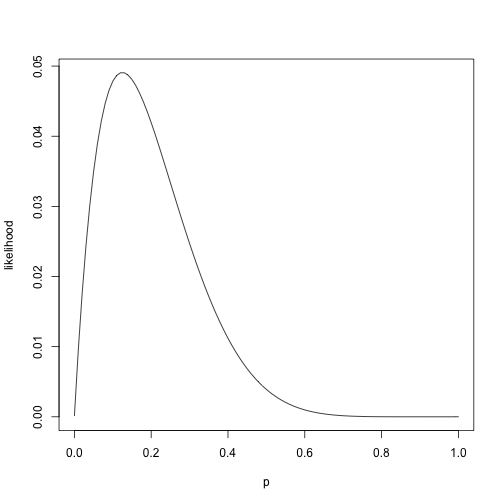
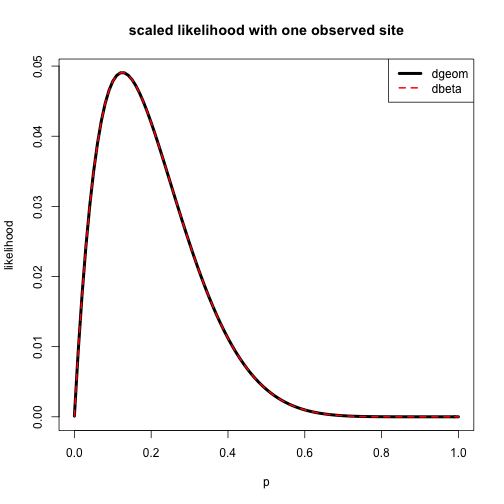
update the .md file and figures

diff --git a/scale-abundance.md b/scale-abundance.md
@@ -16,64 +16,98 @@ According to Harte et al. (2008), the distribution of abundance values, $n$, acr
 
 
 ```r
-plot(0:10, dgeom(0:10, p = .8), type = "h", lwd = 3, xlab = "n", ylab = "frequency")
-points(0:10 + .1, dgeom(0:10, p = .5), type = "h", lwd = 3, col = "red")
+plot(0:10 - .05, dgeom(0:10, p = .8), type = "h", lwd = 3, xlab = "n", ylab = "frequency")
+points(0:10 + .05, dgeom(0:10, p = .5), type = "h", lwd = 3, col = "red")
 ```
 
 ![plot of chunk unnamed-chunk-2](figure/unnamed-chunk-2-1.png) 
 
 Let's say we observe a site with $n=7$.  That outcome could have been generated from a range of possible geometric distributions, and we can assign a likelihood ($\mathrm{prob}(n|p)$) to them.
 
-
-```r
-curve(dgeom(7, x), from = .0001, xlab = "p", ylab = "likelihood")
-```
-
-![plot of chunk unnamed-chunk-3](figure/unnamed-chunk-3-1.png) 
-
-I'm pretty sure the likelihood is proportional to a beta distribution (because conjugate priors). Trial and error indicates that it has $\mathrm{shape1} = 2$ and $\mathrm{shape2} = n + 1$. Interestingly, this distribution's mean is *not* just $1/n$, which is what one might have expected (it's somewhat closer to $0.5$, especially when $n$ is small).
+I'm pretty sure the likelihood is proportional to a beta distribution (because conjugate priors). Trial and error indicates that the distribution has $\mathrm{shape1} = 2$ and $\mathrm{shape2} = n + A$. While the maximum likelihood estimate for $p$ is $1/n$, the distribution is skewed so the posterior mean will be somewhat closer to $0.5$ (especially when $n$ is small).  Here, I rescale the units of $A$ so that it equals 1.
 
 
 ```r
 Z = exp(4.276666) # Proportionality constant, found empirically
 
-curve(dgeom(7, x), from = .0001, xlab = "p", ylab = "likelihood", lwd = 4)
-curve(dbeta(x, shape1 = 2, shape2 = 7 + 1) / Z, add = TRUE, col = "red", lwd = 2)
+curve(dgeom(7, x), from = .0001, xlab = "p", ylab = "likelihood", lwd = 4, main = "scaled likelihood with one observed site")
+curve(dbeta(x, shape1 = 2, shape2 = 7 + 1) / Z, add = TRUE, col = "red", lwd = 2, lty = 2)
+legend("topright", c("dgeom", "dbeta"), lty = 1:2, lwd = c(4, 2), col = 1:2)
+```
+
+![plot of chunk unnamed-chunk-3](figure/unnamed-chunk-3-1.png) 
+
+If we'd observed $n$ at more than one site, then our estimate of $p$ would still follow a beta distribution, it would just have larger shape parameters (and less uncertainty). Trial and error seems to indicate that $\mathrm{shape1}=1+\sum_i{A_i}$ and $\mathrm{shape2} = 1 + \sum_i{n_i}$, where $i$ indexes the sites.  Here, I scaled $A$'s units so that the average area of the sampled sites equals one.
+
+
+```r
+Z = exp(8.291547) # Proportionality constant, found empirically
+
+curve(dgeom(7, x) * dgeom(11, x) * Z, from = .0001, xlab = "p", ylab = "likelihood", lwd = 4, main = "scaled likelihood with two observed sites")
+curve(dbeta(x, shape1 = 1 + 2, shape2 = 7 + 11 + 1), add = TRUE, col = "red", lwd = 2, lty = 2)
+legend("topright", c("dgeom", "dbeta"), lty = 1:2, lwd = c(4, 2), col = 1:2)
 ```
 
 ![plot of chunk unnamed-chunk-4](figure/unnamed-chunk-4-1.png) 
 
-If we'd observed $n$ at more than one site, then our estimate of $p$ would still follow a beta distribution, it would just have larger shape parameters (and less uncertainty). I think we'd just keep adding $n$'s and possibly $1$'s to the shape parameters, but I haven't played around with it yet to be sure.
-
 ## Predicting one new site
 
-This beta distribution describes our uncertainty about the "true" value of the parameter $p$.
+This beta distribution describes our uncertainty about the "true" value of the parameter $p$.  I'm reasonably sure we can say $p=1/\bar{n}$, i.e. the reciprocal of the expected number of individuals in a plot of size $A$, but it would be worth double-checking.
 
 If the parameter $p$ can take on different values from this distribution, then a wide range of outcomes are possible the next time we collect a sample from an area of size $A$.
 
 
 ```r
 p_parameter_possibilities = rbeta(10000, 2, 7 + 2)
+
+# 95% confidence interval for 1/p, which should be the expected abundance per plot 
+#of size A
+quantile(1 / p_parameter_possibilities, c(.025, .975))
+```
+
+```
+##      2.5%     97.5% 
+##  2.224526 41.316903
+```
+
+Based on this, our observation of 7 individuals in one area of size $A$ leads to a 95% confidence interval for expected abundance that ranges from 2.2 to 41.3.  This sounds reasonable: the geometric distribution has a long tail, so it's possible that the true mean is pretty small and 7 was an outlier. Likewise, the mode of a geometric distribution is always zero, so we'd expect to occasionally find a small number of individuals (like 7), even when the true mean is much higher.
+
+The long tail also means that a newly-sampled site could have an absolutely enormous number of individuals, especially if the true mean density is much higher than we expected.
+
+
+```r
 sample_n_values = rgeom(10000, p_parameter_possibilities)
 plot(table(sample_n_values))
 ```
 
-![plot of chunk unnamed-chunk-5](figure/unnamed-chunk-5-1.png) 
+![plot of chunk unnamed-chunk-6](figure/unnamed-chunk-6-1.png) 
 
-This distribution has a much longer tail than what we'd have gotten if we had assumed we knew $p$ exactly. If we had just assumed $p = 1/n$, we'd have expected a distribution like this:
+This mixture distribution has a much longer tail than what we'd have gotten if we had assumed we knew $p$ exactly, because it accounts for the fact that $1/p$ could be huge. If we had just assumed $p = 1/n$ (the maximum likelihood estimate), we'd have expected a distribution like this instead:
 
 
 ```r
-plot(table(rgeom(10000, 1/21)), xlim = range(sample_n_values))
+plot(table(rgeom(10000, 1/7)), xlim = range(sample_n_values))
 ```
 
-![plot of chunk unnamed-chunk-6](figure/unnamed-chunk-6-1.png) 
+![plot of chunk unnamed-chunk-7](figure/unnamed-chunk-7-1.png) 
 
 ## Scaling up
 
-Now let's scale up to multiple sites (e.g. 1000).  The METE model assumes that there's a single landscape-wide value of $p$, we just don't know what it is.  So for each possible value of $p$, we could sample 1000 sites of size $A$ and add up the $n$ values to get $n_0$.
+Now let's scale up to multiple sites (e.g. 1000).  The METE model assumes that there's a single landscape-wide value of $p$, we just don't know what it is.  So for each possible value of $p$, we could sample 1000 sites of size $A=1$ and add up the $n$ values to get $n_0$.
 
-I'm pretty sure that the resulting distribution is some kind of negative binomial, and it might even be Poisson.
+With a fixed value of $p$, the sum of geometrically-distributed variables seems to be a negative binomial, with $\mathrm{size}=A_0/A$) and $\mathrm{prob}=p$ (which entails a mean/variance ratio equal to $p$).  I haven't really tested this, but it fits my understanding of the negative binomial versus the geometric (negative binomial generalizes the geometric distribution to describe time to *multiple* failures instead of just one) and seems to work correctly in the graph below.
+
+
+```r
+plot(density(replicate(100000, sum(rgeom(1000, p = 1/7)))), lwd = 4)
+lines(0:10000, dnbinom(0:10000, size = 1000, prob = 1/7), col = "red", lwd = 2, lty = 2)
+legend("topright", c("rgeom", "dnbinom"), lty = 1:2, lwd = c(4, 2), col = 1:2)
+```
+
+![plot of chunk unnamed-chunk-8](figure/unnamed-chunk-8-1.png) 
+
+
+Again, if we average over our uncertainty, we get a much wider range of possibilities (note the range of the x axis).
 
 
 ```r
@@ -87,8 +121,15 @@ n_0_possibilities = sapply(
 plot(density(n_0_possibilities))
 ```
 
-![plot of chunk unnamed-chunk-7](figure/unnamed-chunk-7-1.png) 
+![plot of chunk unnamed-chunk-9](figure/unnamed-chunk-9-1.png) 
+
+While this is a uselessly wide distribution (95% confidence intervals between 1.2e+03 and 4.7e+04), it's also pretty sensible that we can't pin things down very well with only one quadrat.  With more samples, we could be more confident about the value of $p$, and we could cut the overdispersion down until things started to look like the previous figure when $A$ is large.
 
 ## Scaling up with spatial heterogeneity
 
-If there's spatial heterogeneity, then we won't have the same $p$ at all sites. We'd thus expect an even broader range of possibilities when we scaled up than above.  Depending on what kind of distribution we expect for $p$ across sites, we could do this in different ways. The most principled approach would be to fit a mixture of geometric distributions in the first step, instead of just one, and then carry the results through the rest of the process.  Alternatively, we might be able to just increase the overdispersion of our negative binomial (i.e. wait until the last step to worry about it).
+If there's spatial heterogeneity, then we won't have the same $p$ at all sites. We'd thus expect an even broader range of possibilities when we scaled up than above (although we could keep the variance down by actually sampling multiple sites).  Depending on what kind of distribution we expect for $p$ across sites, we could do this in different ways. The most principled approach would be to fit a mixture of geometric distributions in the first step, instead of just one, and then carry the results through the rest of the process. Or we could estimate $p$ as a function of the environment (like fitting an SDM with abundance data and then taking the reciprocal of $n$ to get $p$ at all the unexplored areas).  Alternatively, we might be able to just increase the overdispersion of our negative binomial a bit further while, which should probably work fine in a lot of cases even if there isn't any particular reason to think the mixture distribution implied by spatial heterogeneity is still negative binomial.
+
+## Remaining questions
+
+* Did I make any boneheaded mistakes?
+* What's the *joint* distribution of $n$ values for different species in a given area $A$, assuming $S_0$ is known/fixed and we've marginalized out $E$? This would make a useful prior for the kinds of multi-species distribution modeling I've been working on.
